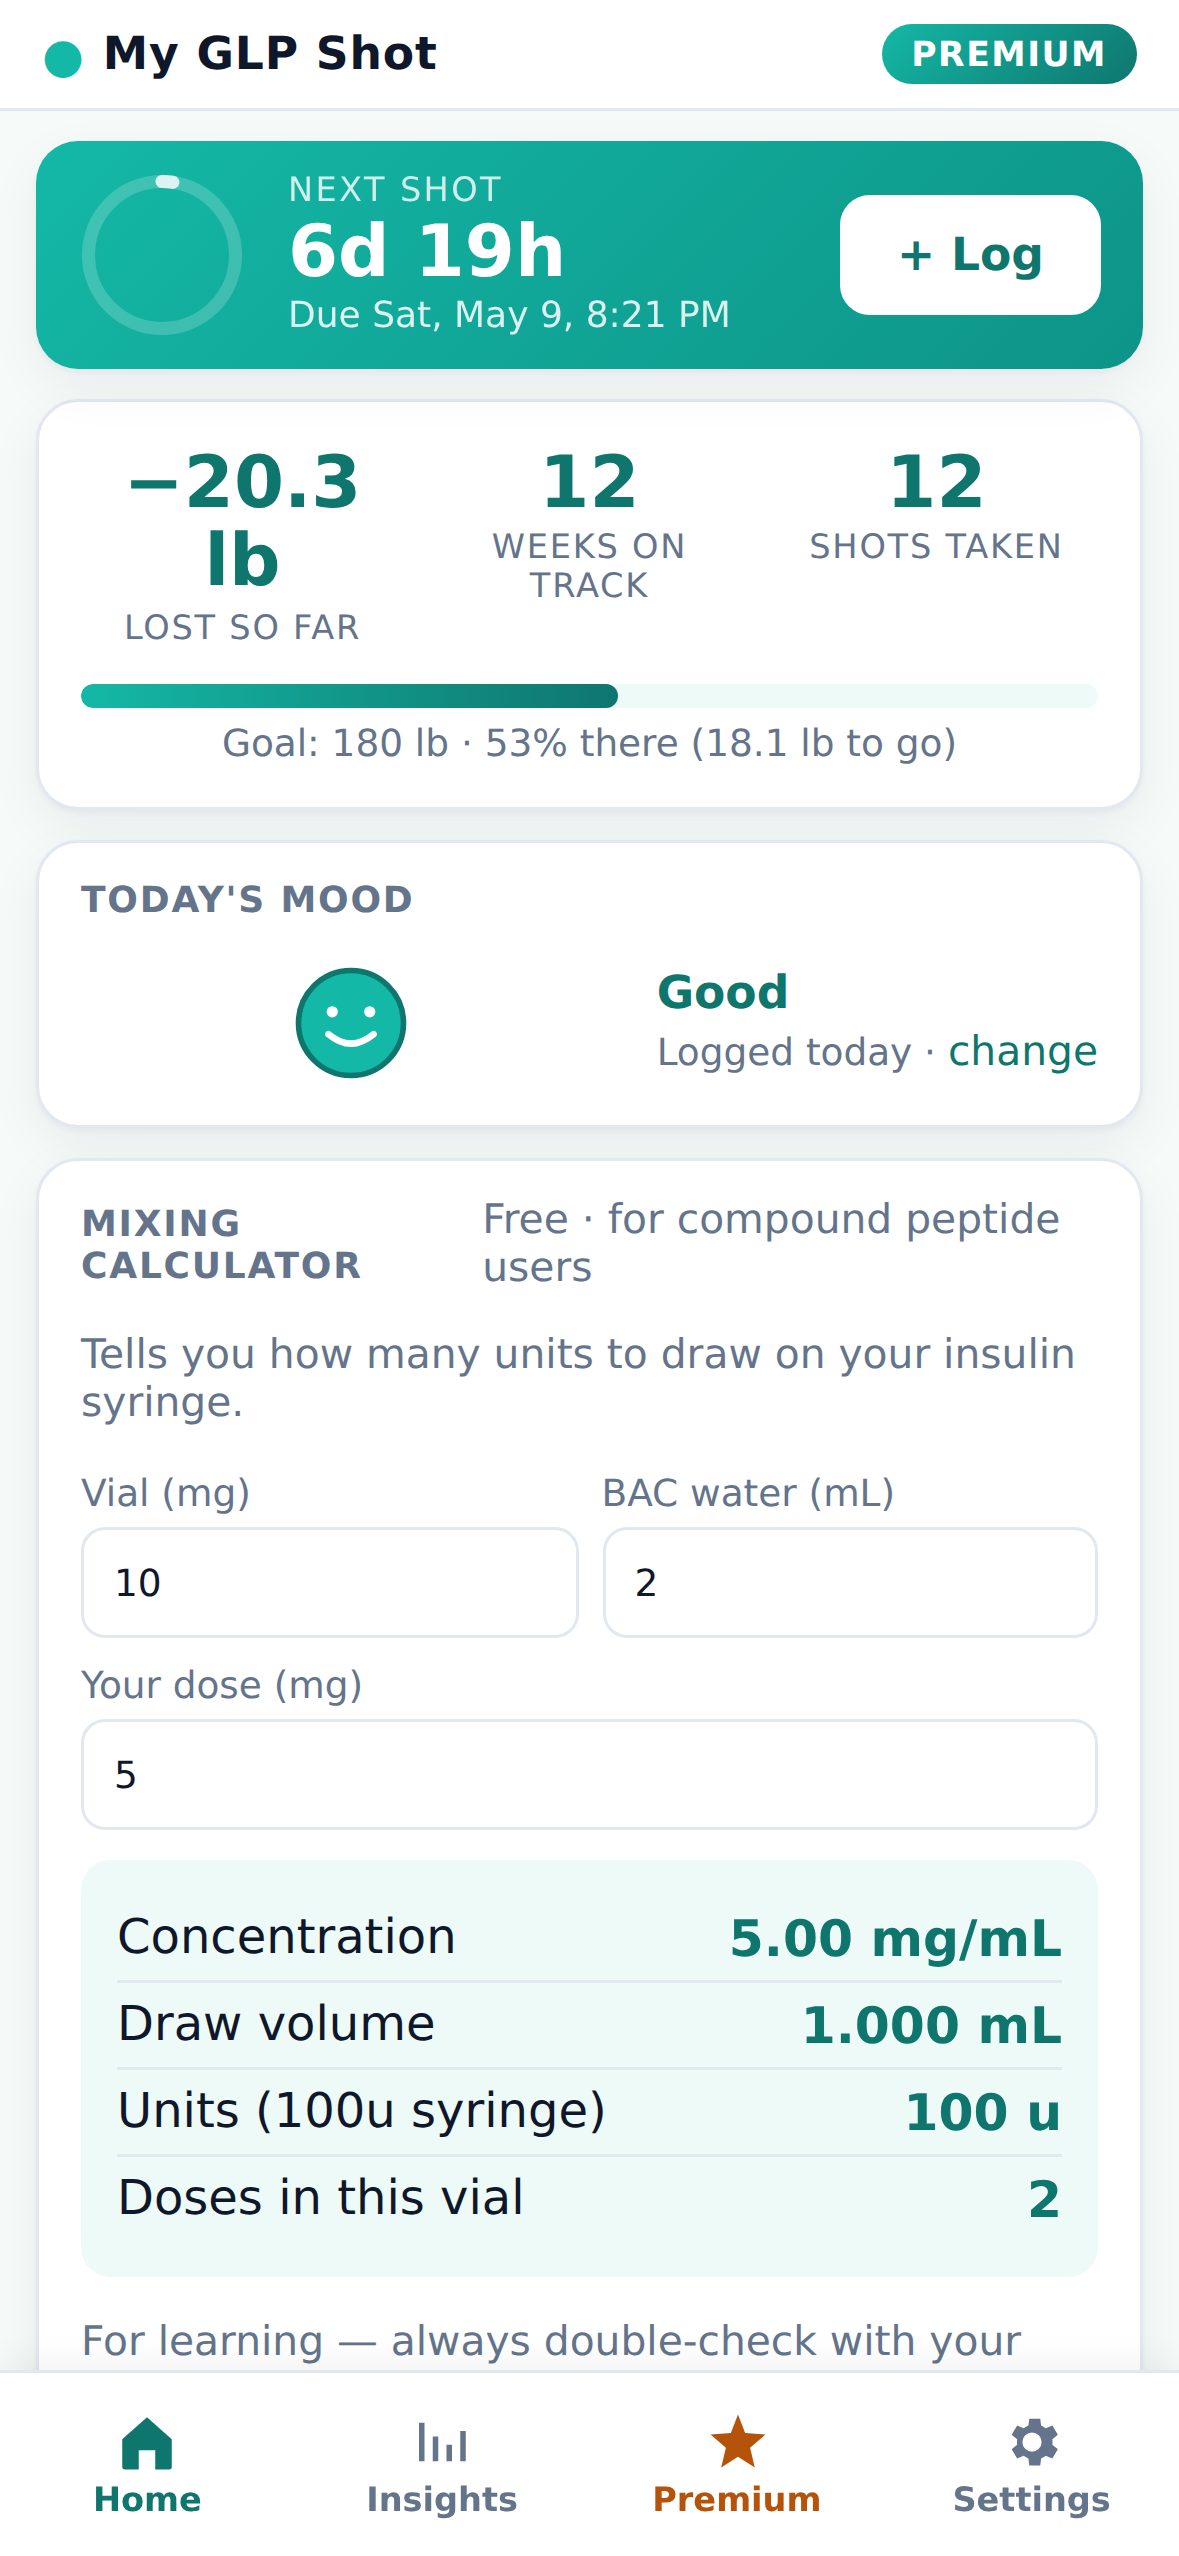
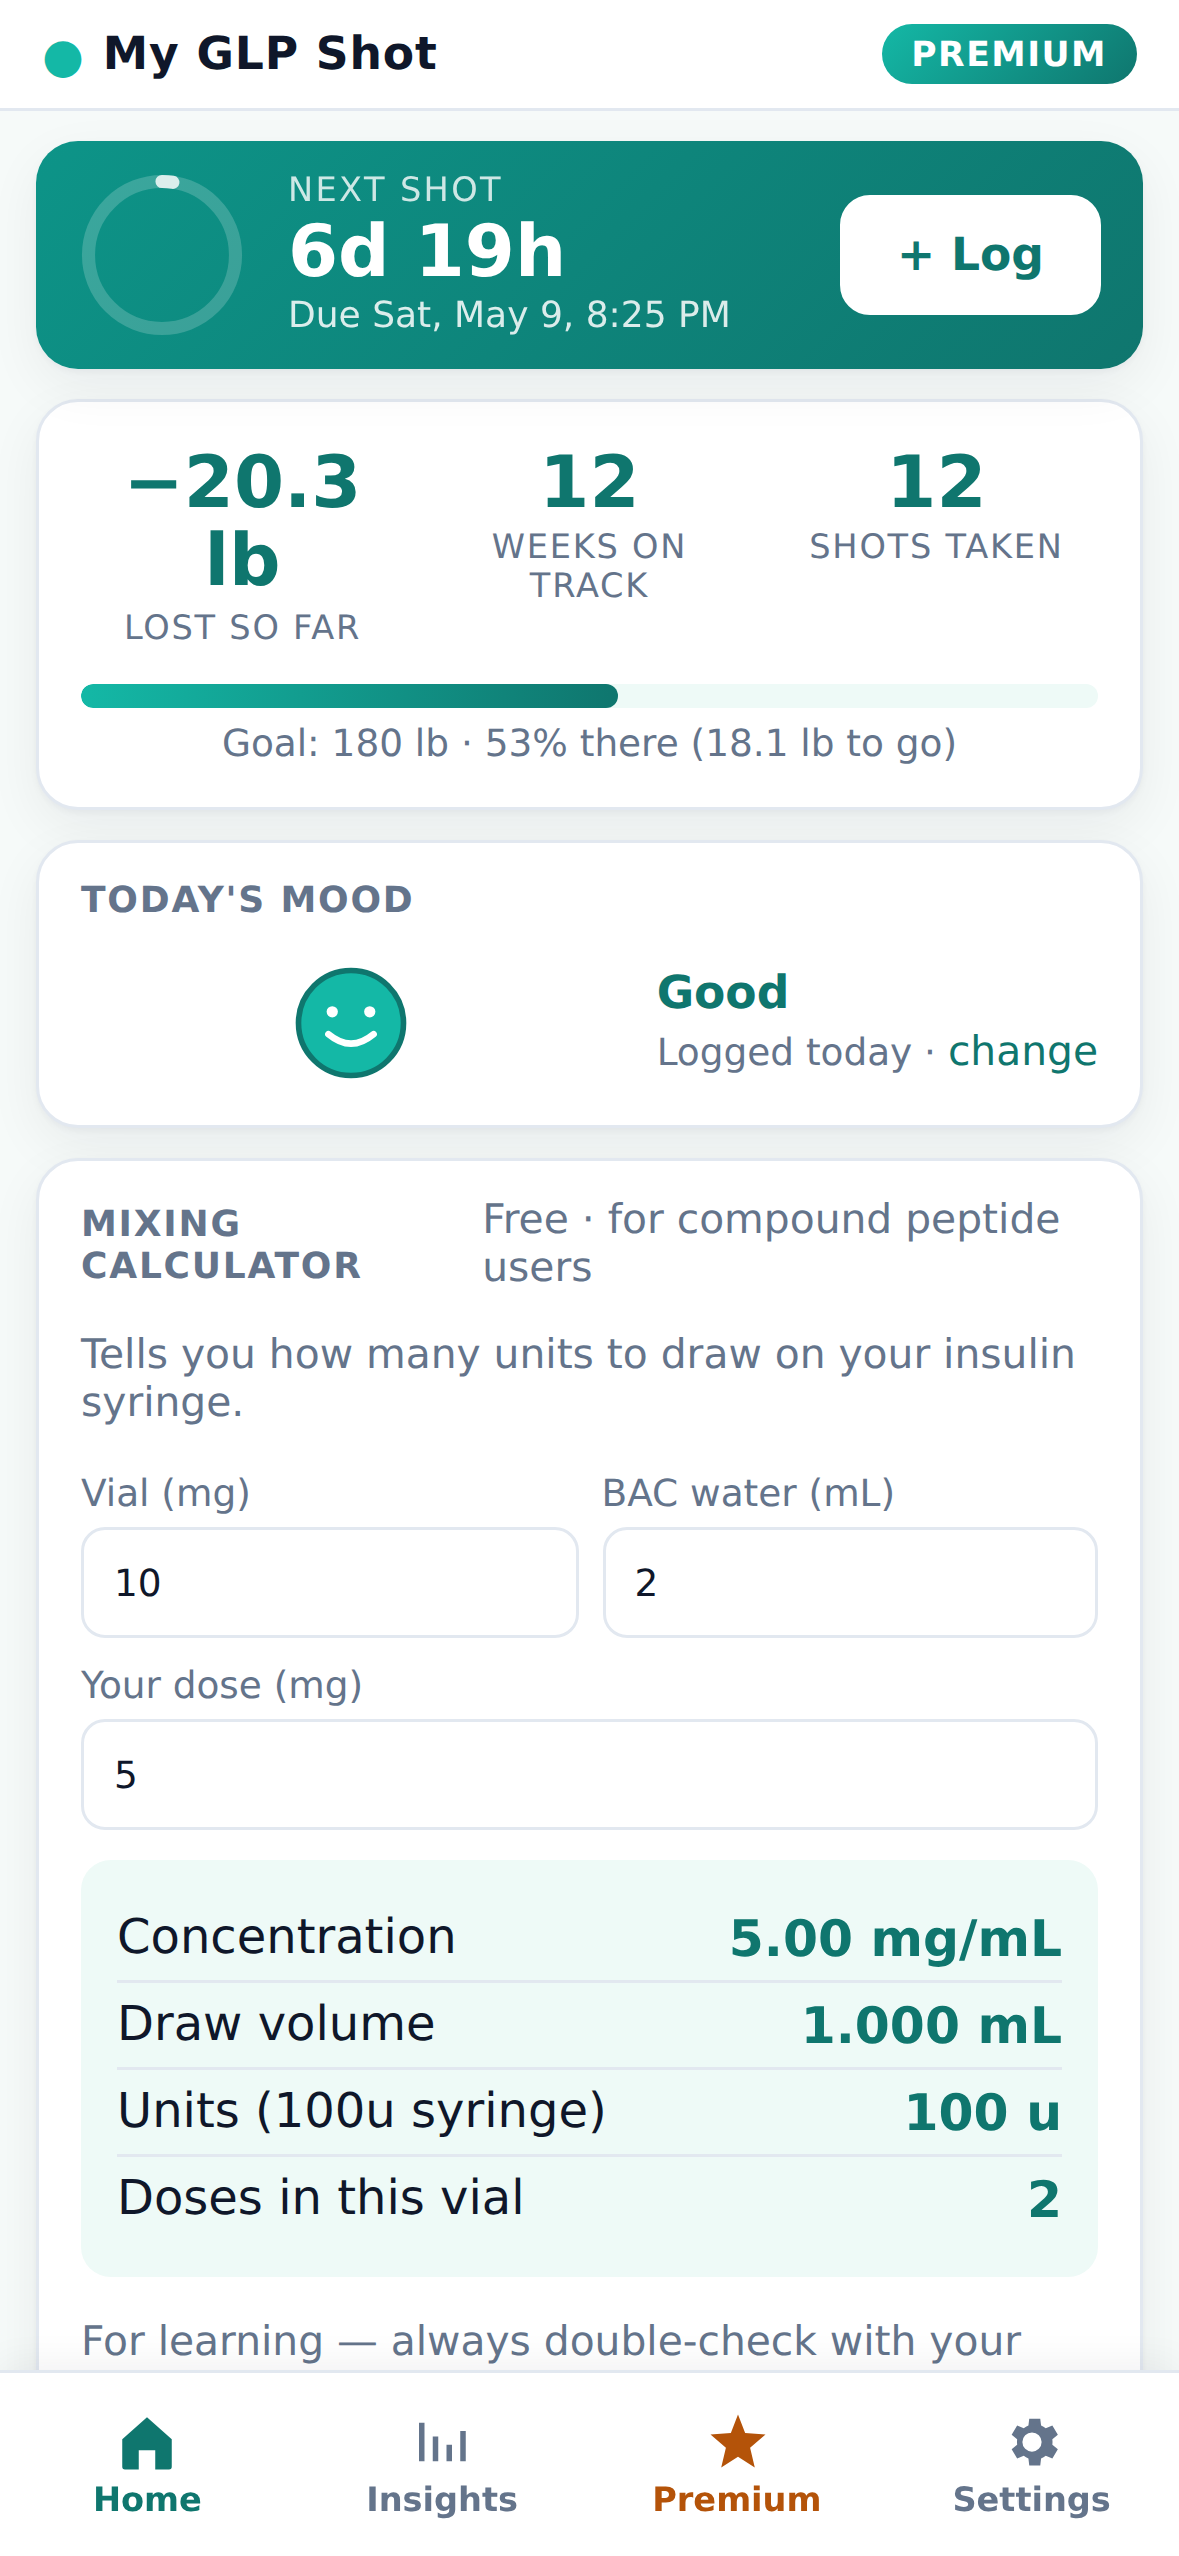
v0.32.1: theme system covers light+dark with proper tints; gradient uses dark stops for WCAG AA (40/40 pass); achievements re-styled with proper unlocked treatment; lock-pill emerald darkened for AA

Changed region(s): [[0.0305, 0.0309, 0.9771, 0.1545]]

diff --git a/scripts/theme-contrast-test.js b/scripts/theme-contrast-test.js
@@ -1,0 +1,180 @@
+// Headless contrast tester for the 20 color themes × light/dark modes.
+// Loops through each theme, programmatically applies it, samples computed colors of key UI surfaces,
+// and verifies WCAG-AA contrast (4.5:1 for normal text, 3:1 for large/UI). Reports failures.
+//
+// Usage: node /opt/my-glp-shot/scripts/theme-contrast-test.js
+// Output: console table + screenshots at /tmp/mgs-theme-test-<ts>/
+
+const puppeteer = require('/tmp/node_modules/puppeteer-core');
+const fs = require('fs');
+const path = require('path');
+
+const KEYS = JSON.parse(fs.readFileSync('/root/.openclaw/workspace/daily/wsg-api-keys.json', 'utf8'));
+const QA_EMAIL = KEYS.mgs_qa_email;
+const QA_PASS = KEYS.mgs_qa_password;
+const APP_URL = 'https://app.myglpshot.com/?nosw=1';
+const OUT = `/tmp/mgs-theme-test-${Date.now()}`;
+fs.mkdirSync(OUT, { recursive: true });
+
+// Same theme list as in app.js. Kept in sync manually — script will fetch from page to avoid drift.
+function srgbToLin(c) {
+  c /= 255;
+  return c <= 0.03928 ? c / 12.92 : Math.pow((c + 0.055) / 1.055, 2.4);
+}
+function relLuminance([r, g, b]) {
+  return 0.2126 * srgbToLin(r) + 0.7152 * srgbToLin(g) + 0.0722 * srgbToLin(b);
+}
+function contrastRatio(rgb1, rgb2) {
+  const l1 = relLuminance(rgb1), l2 = relLuminance(rgb2);
+  const [light, dark] = l1 > l2 ? [l1, l2] : [l2, l1];
+  return (light + 0.05) / (dark + 0.05);
+}
+function parseColor(css) {
+  // Accepts "rgb(r,g,b)" or "rgba(r,g,b,a)" — anything Chrome's getComputedStyle returns.
+  const m = css.match(/rgba?\(\s*(\d+)\s*,\s*(\d+)\s*,\s*(\d+)/);
+  return m ? [+m[1], +m[2], +m[3]] : null;
+}
+
+(async () => {
+  const browser = await puppeteer.launch({
+    executablePath: '/usr/bin/chromium-browser',
+    headless: 'new',
+    args: ['--no-sandbox', '--disable-setuid-sandbox',
+      '--host-resolver-rules=MAP app.myglpshot.com 187.77.19.181',
+      '--ignore-certificate-errors'],
+  });
+  const page = await browser.newPage();
+  await page.setViewport({ width: 414, height: 900, deviceScaleFactor: 2 });
+  await page.evaluateOnNewDocument(() => {
+    try { localStorage.setItem('install.lastShown', String(Date.now())); } catch (_) {}
+  });
+  await page.goto(APP_URL, { waitUntil: 'domcontentloaded', timeout: 30000 });
+  await new Promise(r => setTimeout(r, 1500));
+
+  // Login as QA premium user.
+  await page.evaluate(() => document.querySelector('[data-auth-mode="login"]').click());
+  await page.evaluate((e, p) => {
+    document.getElementById('auth-email').value = e;
+    document.getElementById('auth-pw').value = p;
+  }, QA_EMAIL, QA_PASS);
+  const navP = page.waitForNavigation({ waitUntil: 'domcontentloaded', timeout: 20000 }).catch(() => null);
+  await page.evaluate(() => document.getElementById('auth-submit').click());
+  await navP;
+  await page.waitForFunction(
+    () => typeof account !== 'undefined' && !!(account && account.user && account.encryptionKey),
+    { timeout: 15000 }
+  ).catch(() => {});
+  await new Promise(r => setTimeout(r, 1500));
+
+  // Fetch theme list directly from the page to avoid drift.
+  const themes = await page.evaluate(() => (typeof THEMES !== 'undefined' ? THEMES : []));
+  if (!themes.length) {
+    console.error('No THEMES exposed on window. Aborting.');
+    process.exit(2);
+  }
+
+  // Sample points: which UI surfaces matter for legibility.
+  const samples = [
+    // [label, fg-selector, bg-selector, fg-getter, bg-getter, isLargeText]
+    { label: 'body text vs surface',         fgSel: '.card p,.muted',                    bgSel: '.card',                    large: false },
+    { label: 'card heading vs surface',       fgSel: '.card h2',                          bgSel: '.card',                    large: true  },
+    { label: 'btn-primary text vs bg',        fgSel: '.btn-primary',                      bgSel: '.btn-primary',             large: true,  fgProp: 'color',           bgProp: 'background-color' },
+    { label: 'nav-btn label vs nav bg',       fgSel: '#bottom-nav .nav-btn',              bgSel: '#bottom-nav',              large: false },
+    { label: 'nav-btn-premium vs nav bg',     fgSel: '#bottom-nav .nav-btn-premium',      bgSel: '#bottom-nav',              large: false },
+    { label: 'countdown value vs gradient',   fgSel: '.countdown-value',                  bgSel: '.countdown-card',          large: true  },
+    { label: 'lock-pill vs surface',          fgSel: '.lock-pill',                        bgSel: '.lock-pill',               large: false, fgProp: 'color',           bgProp: 'background-color' },
+    { label: 'theme-swatch.active border',    fgSel: '.theme-swatch.active .theme-swatch-name', bgSel: '.theme-swatch.active', large: false },
+    { label: 'badge.unlocked text',           fgSel: '.badge.unlocked .badge-label',      bgSel: '.badge.unlocked',          large: false, fgProp: 'color',           bgProp: 'background-color' },
+  ];
+
+  const results = [];
+  for (const mode of ['light', 'dark']) {
+    for (const theme of themes) {
+      // Apply theme + mode programmatically.
+      await page.evaluate((mode, themeId) => {
+        settings.theme = mode;
+        applyTheme();
+        settings.colorTheme = themeId;
+        applyColorTheme(themeId);
+      }, mode, theme.id);
+      await new Promise(r => setTimeout(r, 300));
+
+      // For each sample, fetch computed colors of fg + bg and compute contrast.
+      const themeFails = [];
+      for (const s of samples) {
+        const data = await page.evaluate((sel, fgProp, bgSel, bgProp) => {
+          const fgEl = document.querySelector(sel);
+          if (!fgEl) return null;
+          const fg = getComputedStyle(fgEl)[fgProp || 'color'];
+          const bgEl = document.querySelector(bgSel);
+          if (!bgEl) return null;
+          // Walk up DOM until we find a non-transparent background.
+          // Resolve effective bg: try background-color, then look for a gradient in background-image, else walk up.
+          function effectiveBg(el) {
+            const cs = getComputedStyle(el);
+            const c = cs[bgProp || 'background-color'];
+            if (c && c !== 'rgba(0, 0, 0, 0)' && c !== 'transparent') return c;
+            const img = cs.backgroundImage || '';
+            const m = img.match(/(?:linear|radial)-gradient\([^)]*?(rgba?\([^)]*\)|#[0-9a-f]{3,8})/i);
+            if (m) {
+              if (m[1].startsWith('#')) {
+                const h = m[1].replace('#', '');
+                const r = parseInt(h.length === 3 ? h[0]+h[0] : h.slice(0,2), 16);
+                const g = parseInt(h.length === 3 ? h[1]+h[1] : h.slice(2,4), 16);
+                const b = parseInt(h.length === 3 ? h[2]+h[2] : h.slice(4,6), 16);
+                return `rgb(${r}, ${g}, ${b})`;
+              }
+              return m[1];
+            }
+            return null;
+          }
+          let cur = bgEl, bg = effectiveBg(cur);
+          while (!bg && cur.parentElement) { cur = cur.parentElement; bg = effectiveBg(cur); }
+          return { fg, bg };
+        }, s.fgSel, s.fgProp, s.bgSel, s.bgProp);
+        if (!data) continue;
+        const fg = parseColor(data.fg);
+        const bg = parseColor(data.bg);
+        if (!fg || !bg) continue;
+        const ratio = contrastRatio(fg, bg);
+        const min = s.large ? 3.0 : 4.5;
+        if (ratio < min) {
+          themeFails.push({ sample: s.label, ratio: ratio.toFixed(2), min, fg: data.fg, bg: data.bg });
+        }
+      }
+
+      // Screenshot for visual review.
+      const screenshotName = `${theme.id}-${mode}.png`;
+      await page.evaluate(() => document.querySelectorAll('dialog[open]').forEach(d => { try { d.close(); } catch (_) {} }));
+      await page.screenshot({ path: path.join(OUT, screenshotName), fullPage: false });
+
+      results.push({ theme: theme.id, mode, fails: themeFails });
+    }
+  }
+
+  await browser.close();
+
+  // Report
+  console.log(`\n=== Theme contrast audit ===`);
+  console.log(`Output dir (screenshots): ${OUT}`);
+  console.log(`Themes tested: ${themes.length} × 2 modes = ${themes.length * 2} variants`);
+  let totalFails = 0;
+  console.log('\nFailures (contrast below WCAG AA threshold):');
+  for (const r of results) {
+    if (r.fails.length) {
+      totalFails++;
+      console.log(`\n  ✗ ${r.theme} (${r.mode}):`);
+      for (const f of r.fails) {
+        console.log(`      ${f.sample}: ${f.ratio} (need ≥${f.min}) fg=${f.fg} bg=${f.bg}`);
+      }
+    }
+  }
+  if (!totalFails) {
+    console.log('  ✓ All themes pass.');
+  }
+  console.log(`\nSummary: ${results.length - totalFails}/${results.length} pass`);
+
+  // Write JSON report.
+  fs.writeFileSync(path.join(OUT, 'report.json'), JSON.stringify(results, null, 2));
+  process.exit(totalFails ? 1 : 0);
+})().catch(e => { console.error('FATAL:', e.message, e.stack); process.exit(2); });

diff --git a/web/app/app.js b/web/app/app.js
@@ -33,7 +33,7 @@ const THEMES = [
   { id: 'lavender',    name: 'Lavender',     light: { primary: '#a78bfa', dark: '#7c3aed', tint: '#f3e8ff', grad2: '#9333ea' }, dark: { primary: '#c4b5fd', dark: '#ddd6fe', tint: '#3b0764', grad2: '#9333ea' } },
   { id: 'sunset',      name: 'Sunset',       light: { primary: '#f97316', dark: '#c2410c', tint: '#ffedd5', grad2: '#ea580c' }, dark: { primary: '#fb923c', dark: '#fdba74', tint: '#431407', grad2: '#ea580c' } },
   { id: 'cherry',      name: 'Cherry Red',   light: { primary: '#dc2626', dark: '#991b1b', tint: '#fee2e2', grad2: '#b91c1c' }, dark: { primary: '#ef4444', dark: '#fca5a5', tint: '#450a0a', grad2: '#b91c1c' } },
-  { id: 'mint',        name: 'Mint',         light: { primary: '#34d399', dark: '#047857', tint: '#d1fae5', grad2: '#10b981' }, dark: { primary: '#6ee7b7', dark: '#a7f3d0', tint: '#022c22', grad2: '#10b981' } },
+  { id: 'mint',        name: 'Mint',         light: { primary: '#34d399', dark: '#047857', tint: '#d1fae5', grad2: '#059669' }, dark: { primary: '#6ee7b7', dark: '#a7f3d0', tint: '#022c22', grad2: '#059669' } },
   { id: 'indigo',      name: 'Indigo',       light: { primary: '#6366f1', dark: '#3730a3', tint: '#e0e7ff', grad2: '#4f46e5' }, dark: { primary: '#818cf8', dark: '#a5b4fc', tint: '#1e1b4b', grad2: '#4f46e5' } },
   { id: 'rose',        name: 'Rose Gold',    light: { primary: '#f43f5e', dark: '#9f1239', tint: '#ffe4e6', grad2: '#e11d48' }, dark: { primary: '#fb7185', dark: '#fda4af', tint: '#4c0519', grad2: '#e11d48' } },
   { id: 'slate',       name: 'Slate',        light: { primary: '#64748b', dark: '#334155', tint: '#f1f5f9', grad2: '#475569' }, dark: { primary: '#94a3b8', dark: '#cbd5e1', tint: '#0f172a', grad2: '#475569' } },
@@ -2889,7 +2889,9 @@ function applyColorTheme(themeId) {
   root.style.setProperty('--bronze', variant.primary);
   root.style.setProperty('--bronze-dk', variant.dark);
   root.style.setProperty('--bronze-lt', variant.tint);
-  root.style.setProperty('--grad', `linear-gradient(135deg, ${variant.primary} 0%, ${variant.grad2} 100%)`);
+  // Gradient runs from the medium-dark to the dark stop (NOT the bright primary).
+  // White text always sits on the gradient (countdown card etc.); using primary as start drops contrast below 3:1 for many themes.
+  root.style.setProperty('--grad', `linear-gradient(135deg, ${t.light.grad2} 0%, ${t.light.dark} 100%)`);
   // iOS address-bar tint — always use the light-mode dark color so the bar reads as the brand.
   const meta = document.querySelector('meta[name="theme-color"]');
   if (meta) meta.content = t.light.dark;
